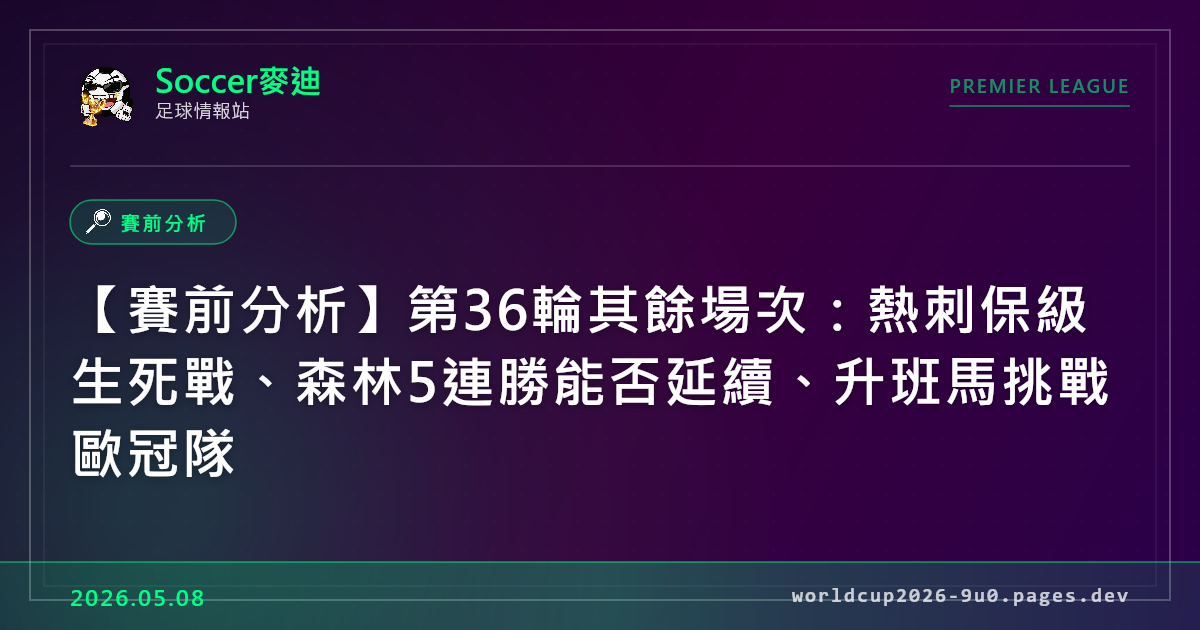
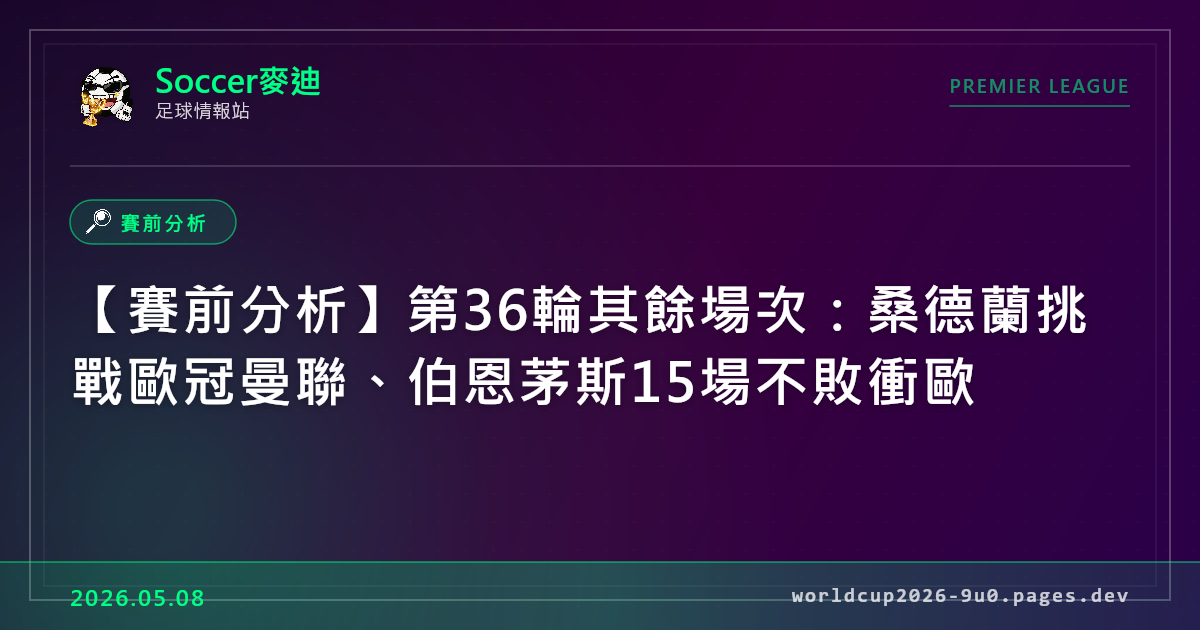
chore(午後補強): MW36 賽果更新 + TOT-LEE 官方房 + OG
- 5/9 已完賽 5 場比分寫入 epl-data-teams.js (LIV-CHE 1-1, BHA-WOL 3-0, FUL-BOU 0-1, SUN-MUN 0-0, MCI-BRE 3-0)
- build:official-rooms 補建 TOT-LEE 房間
- build:index + build:og 重建
- seed op-20260510-a 留言 8 則
- 午後熱點評估：無夠熱爭議，跳過 recap 候選

Changed region(s): [[0.0617, 0.4524, 0.925, 0.754]]

diff --git a/js/epl-data-teams.js b/js/epl-data-teams.js
@@ -1,7 +1,7 @@
 /* =============================================
    EPL-DATA-TEAMS.JS — 2025/26 英超 20 支球隊資料
    隊徽：football-data.org CDN
-   資料截止：2025/26 賽季（2026-05-09 早上更新）
+   資料截止：2025/26 賽季（2026-05-10 下午更新）
    ============================================= */
 
 const EPL_TEAMS = {
@@ -784,10 +784,14 @@ window.EPL_MATCHES = [
   // ===== 第 36 輪 (2026-05-09 ~ 05-11 台灣時間) =====
 
   // 利物浦 vs 切爾西 | 05/09 19:30 台灣時間 (05/09 12:30 BST)
-  {id:'EPL-MW36-LIV-CHE', matchday:36, date:'2026-05-09', time:'19:30', home:'LIV', away:'CHE', stage:'league', status:'upcoming'},
+  {id:'EPL-MW36-LIV-CHE', matchday:36, date:'2026-05-09', time:'19:30', home:'LIV', away:'CHE', stage:'league',
+   status:'finished', score:{h:1,a:1}, halfTime:{h:1,a:1},
+   goals:[{team:'LIV',player:'Gravenberch',minute:6},{team:'CHE',player:'Enzo Fernández',minute:35,assist:'自由球'}]},
 
   // 布萊頓 vs 狼隊 | 05/09 22:00 台灣時間 (05/09 15:00 BST)
-  {id:'EPL-MW36-BHA-WOL', matchday:36, date:'2026-05-09', time:'22:00', home:'BHA', away:'WOL', stage:'league', status:'upcoming'},
+  {id:'EPL-MW36-BHA-WOL', matchday:36, date:'2026-05-09', time:'22:00', home:'BHA', away:'WOL', stage:'league',
+   status:'finished', score:{h:3,a:0}, halfTime:{h:2,a:0},
+   goals:[{team:'BHA',player:'Hinshelwood',minute:1},{team:'BHA',player:'Dunk',minute:5},{team:'BHA',player:'Minteh',minute:86}]},
 
   // 伯恩利 vs 阿斯頓維拉 | 05/10 21:00 台灣時間 (05/10 14:00 BST，因歐霸延賽)
   {id:'EPL-MW36-BUR-AVL', matchday:36, date:'2026-05-10', time:'21:00', home:'BUR', away:'AVL', stage:'league', status:'upcoming'},
@@ -796,13 +800,19 @@ window.EPL_MATCHES = [
   {id:'EPL-MW36-CRY-EVE', matchday:36, date:'2026-05-10', time:'21:00', home:'CRY', away:'EVE', stage:'league', status:'upcoming'},
 
   // 富勒姆 vs 伯恩茅斯 | 05/09 22:00 台灣時間
-  {id:'EPL-MW36-FUL-BOU', matchday:36, date:'2026-05-09', time:'22:00', home:'FUL', away:'BOU', stage:'league', status:'upcoming'},
+  {id:'EPL-MW36-FUL-BOU', matchday:36, date:'2026-05-09', time:'22:00', home:'FUL', away:'BOU', stage:'league',
+   status:'finished', score:{h:0,a:1}, halfTime:{h:0,a:0},
+   goals:[{team:'BOU',player:'Rayan',minute:53}]},
 
   // 桑德蘭 vs 曼聯 | 05/09 22:00 台灣時間
-  {id:'EPL-MW36-SUN-MUN', matchday:36, date:'2026-05-09', time:'22:00', home:'SUN', away:'MUN', stage:'league', status:'upcoming'},
+  {id:'EPL-MW36-SUN-MUN', matchday:36, date:'2026-05-09', time:'22:00', home:'SUN', away:'MUN', stage:'league',
+   status:'finished', score:{h:0,a:0}, halfTime:{h:0,a:0},
+   goals:[]},
 
   // 曼城 vs 布倫特福德 | 05/10 00:30 台灣時間 (05/09 17:30 BST)
-  {id:'EPL-MW36-MCI-BRE', matchday:36, date:'2026-05-10', time:'00:30', home:'MCI', away:'BRE', stage:'league', status:'upcoming'},
+  {id:'EPL-MW36-MCI-BRE', matchday:36, date:'2026-05-10', time:'00:30', home:'MCI', away:'BRE', stage:'league',
+   status:'finished', score:{h:3,a:0}, halfTime:{h:0,a:0},
+   goals:[{team:'MCI',player:'Doku',minute:60},{team:'MCI',player:'Haaland',minute:75},{team:'MCI',player:'Marmoush',minute:90}]},
 
   // 諾丁漢森林 vs 紐卡索 | 05/10 21:00 台灣時間 (05/10 14:00 BST)
   {id:'EPL-MW36-NFO-NEW', matchday:36, date:'2026-05-10', time:'21:00', home:'NFO', away:'NEW', stage:'league', status:'upcoming'},